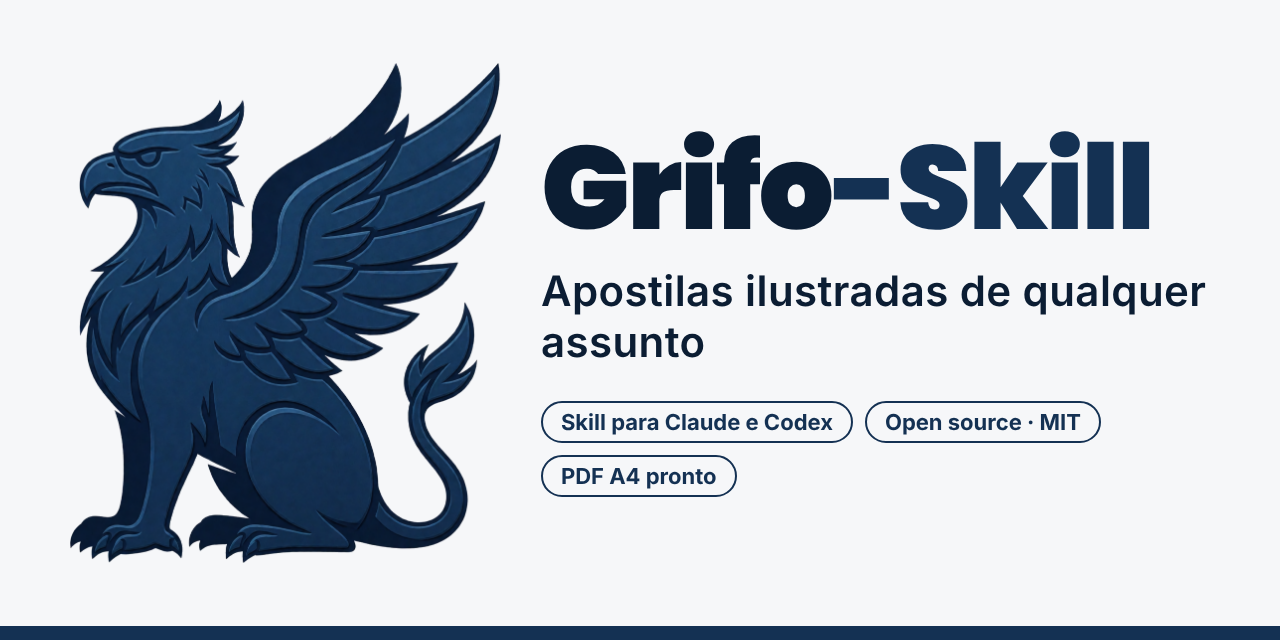
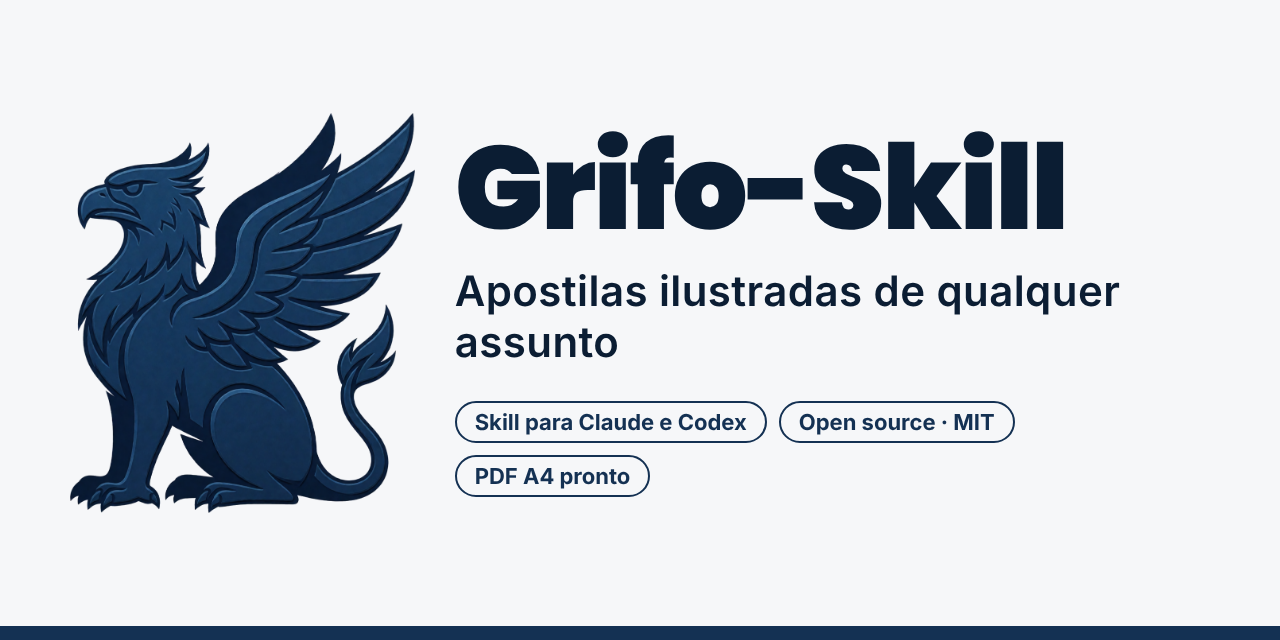
fix(marca): nome numa cor só e grifo menor no social preview
Claude-Session: https://claude.ai/code/session_018QeauuFQAVk8gxwVx3BCj2

Changed region(s): [[0.0312, 0.0938, 0.9375, 0.875]]

diff --git a/ferramentas/gerar_marca.py b/ferramentas/gerar_marca.py
@@ -73,7 +73,6 @@ def main():
 
     marca_texto = f"""
       .nome{{font-family:Poppins;font-weight:900;color:{AZUL_ESCURO};letter-spacing:-.02em;line-height:1}}
-      .nome .s{{color:{AZUL}}}
       .frase{{font-family:Inter;font-weight:600;color:{AZUL};letter-spacing:.01em}}"""
 
     pecas = {
@@ -98,7 +97,7 @@ def main():
             marca_texto + f"""
             .soc{{width:1280px;height:640px;background:#F6F7F9;display:flex;align-items:center;gap:40px;padding:0 70px;
                   border-bottom:14px solid {AZUL}}}
-            .soc img{{height:500px}}
+            .soc img{{height:400px}}
             .nome{{font-size:118px}} .frase{{font-size:42px;margin-top:18px;color:{AZUL_ESCURO}}}
             .selos{{display:flex;gap:12px;margin-top:34px;flex-wrap:wrap}}
             .selos span{{font-family:Inter;font-weight:700;font-size:22px;color:{AZUL};border:2.5px solid {AZUL};
